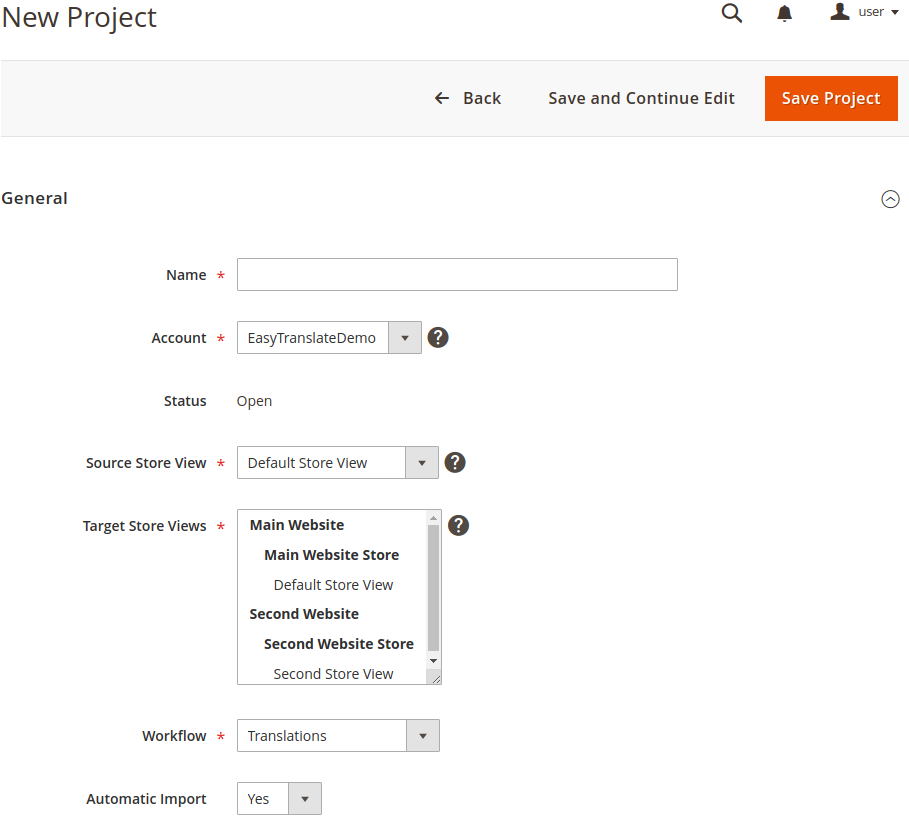
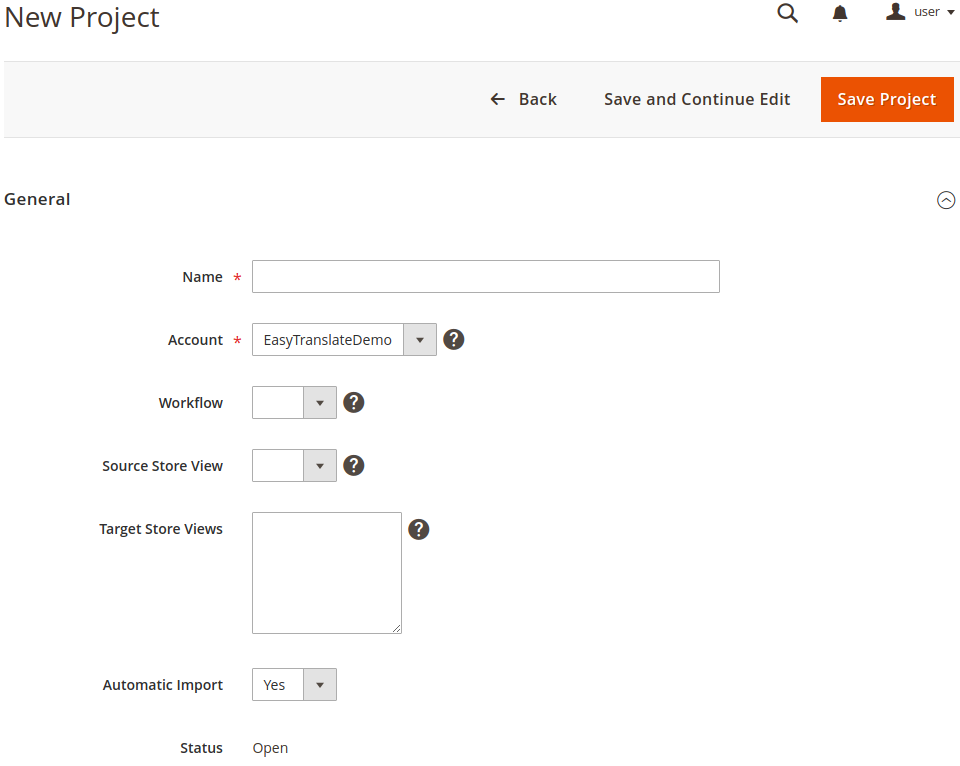
Update docs, DEV-1002

diff --git a/docs/README.md b/docs/README.md
@@ -32,9 +32,12 @@ this, [EthanYehuda_CronjobManager](https://github.com/Ethan3600/magento2-Cronjob
 
 ### Create Projects / Access Existing Projects
 
-Go to System > EasyTranslate Projects. Click the "Add Project" button in the upper right corner. Add the basic project
-information and click "Save and Continue Edit".
-In this step you can also decide, if the translations shall be automatically imported or only on manual scheduling.
+Go to System > EasyTranslate Projects. Click the "Add Project" button in the upper right corner. Add a name, configure
+the account and click "Save and Continue Edit". The workflows setting will show the available workflows under this
+account. Configure the workflow and click "Save and Continue Edit". The "Source Store View" and "Target Store Views"
+will show all stores with languages supported by the selected workflow. Select the source and target store views and
+click "Save and Continue Edit".
+In this step you can also decide, if the translations shall be automatically imported or only when manually scheduled.
 
 ![EasyTranslate Magento 2 Create Project](images/easytranslate-m2-connector-create-project.png "EasyTranslate Magento 2 Create Project")
 
